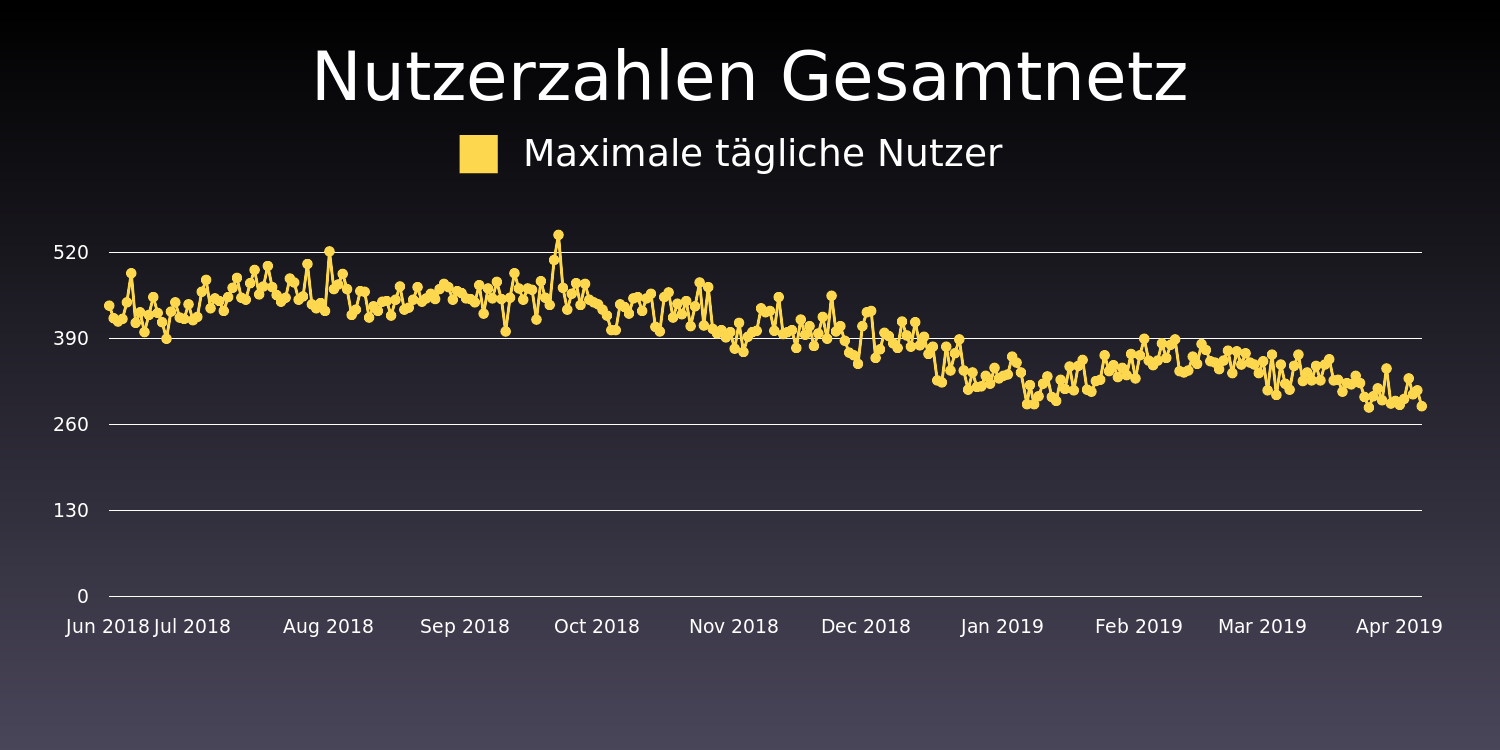
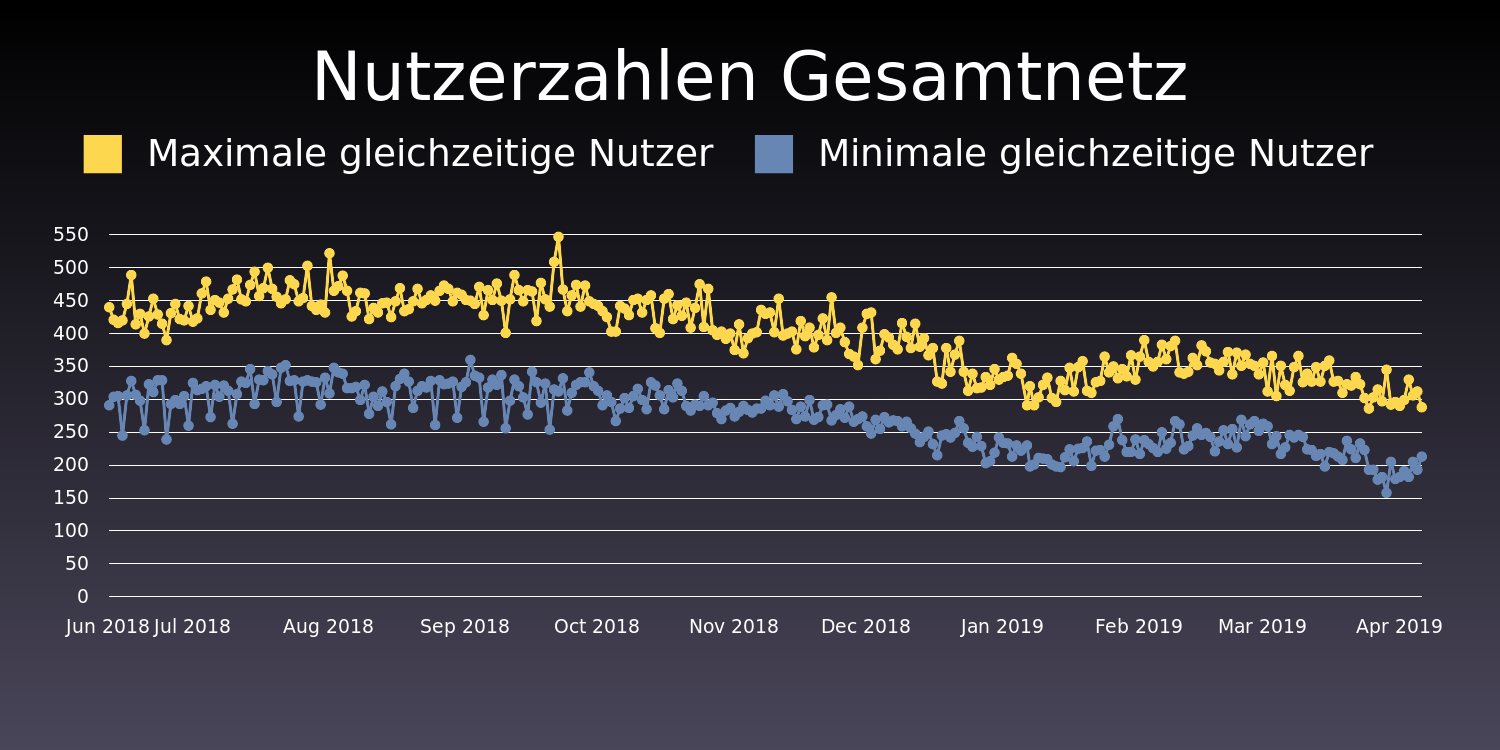
Graph verbessert

diff --git a/ffanalyse.rb b/ffanalyse.rb
@@ -91,14 +91,17 @@ end
 
 puts('Starting network plot')
 summed_data_max = alldata.sum_transform_by { |vs| vs.max_by  { |v| v[1] }[1] }
+summed_data_min = alldata.sum_transform_by { |vs| vs.min_by  { |v| v[1] }[1] }
 
 # puts summed_data
 summed_graph = Gruff::Line.new('1500x750')
 summed_graph.title = 'Nutzerzahlen Gesamtnetz'
-summed_graph.dataxy('Maximale tägliche Nutzer', summed_data_max.keys, summed_data_max.values)
+summed_graph.dataxy('Maximale gleichzeitige Nutzer', summed_data_max.keys, summed_data_max.values)
+summed_graph.dataxy('Minimale gleichzeitige Nutzer', summed_data_min.keys, summed_data_min.values)
 summed_graph.layout_graph
 summed_graph.labels = summed_data_max.keys.map { |s| [s, DateTime.strptime(s.to_i.to_s,'%s').strftime('%b %Y')] }.uniq { |_, dl| dl }.to_h
 #summed_graph.maximum_value = 50
 summed_graph.minimum_value = 0.0
+summed_graph.y_axis_increment = 50
 summed_graph.write('plots/stats-gesamt-new.png')
 puts('Wrote network plot')
